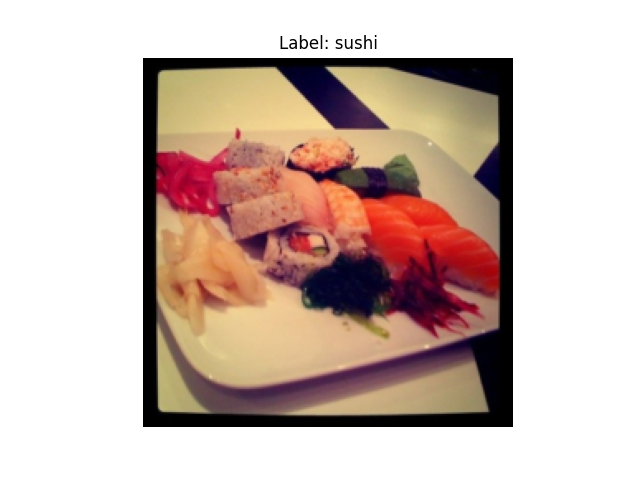
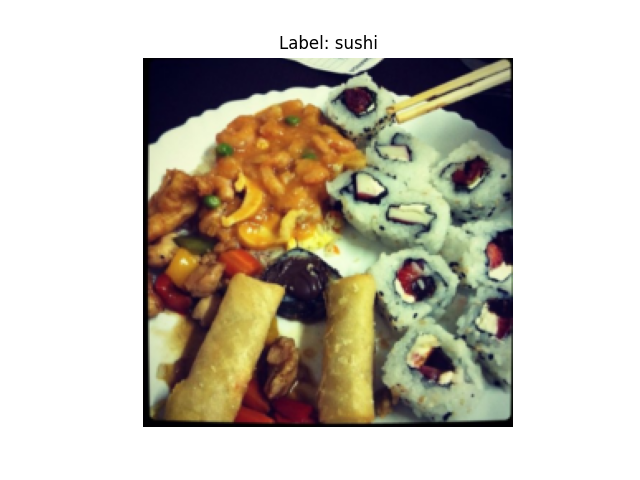
start creating the embedding layer

diff --git a/lessons/section10_pytorch_paper_replicating/src/a_226_pytorch_paper_replicating_part_1.py b/lessons/section10_pytorch_paper_replicating/src/a_226_pytorch_paper_replicating_part_1.py
@@ -72,7 +72,7 @@ ax.axis("off")
 save_path = Path(
     "lessons/section10_pytorch_paper_replicating/src/a_line_72_train_sample_image.png"
 )
-fig.savefig(save_path)
+# fig.savefig(save_path)
 plt.close(fig)
 print(f"Saved sample image to {save_path}")
 
@@ -288,3 +288,59 @@ PSEUDO CODE — mapping each equation to PyTorch building blocks
 #         logits  = self.head(cls_out)          # -> [B, NUM_CLASSES]
 #         return logits
 """
+
+"""
+In table one of the ViT paper, we have different variants of the ViT architecture (ViT-Base, ViT-Large, ViT-Huge) with different hyperparameters. For this example, 
+we'll be replicating the ViT-Base architecture which has the following hyperparameters:
+  - Image size: 224 x 224
+  - Patch size: 16 x 16
+  - Embedding dimension (Hidden size): 768 (transform the 16x16 patches into 768-dimensional vectors)
+  - Number of heads: 12
+  - Layer depth: 12 (number of stacked Transformer Encoder blocks)
+  - MLP size: 3072 (the hidden dimension of the MLP in the Transformer Encoder blocks, which is typically 4x the embedding dimension)
+    MLP is a feedforward network that processes each token independently after the attention mechanism has mixed information across tokens.
+"""
+
+
+"""
+Equation 1 — Patch + Position Embedding (input preparation):
+Input shape: [B, C, H, W] -> Output shape: [B, N+1, D]
+  - B: batch size
+  - C: number of channels (3 for RGB)
+  - H, W: image height and width (224 x 224)
+  - N: number of patches = (H / P) * (W / P) = (224 / 16) * (224 / 16) = 14 * 14 = 196
+  - P: patch size (16)
+  - D: embedding dimension (768)
+"""
+# Calculate the number of patches (N) based on the image size and patch size
+height = 224
+width = 224
+color_channels = 3
+patch_size = 16
+number_of_patches = (height // patch_size) * (width // patch_size)  # = 196
+print(f"Number of patches (N): {number_of_patches}")
+
+embedding_layer_input_shape = (height, width, color_channels)
+embedding_layer_output_shape = (
+    number_of_patches,
+    patch_size**2 * color_channels,
+)  # (N, D)
+print(
+    f"Embedding layer input shape (H, W, C), a 2D image: {embedding_layer_input_shape}"
+)
+print(
+    f"Embedding layer output shape (N, D), single 1D sequence per patch: {embedding_layer_output_shape}"
+)
+
+"""
+4.2 Turn a single image into a sequence of patches and visualize the output of the embedding layer
+"""
+# View a single image
+images, labels = next(iter(train_dataloader))
+image = images[0]  # shape: [C, H, W], float32 in [0, 1]
+print(f"Original image shape: {image.shape}")
+plt.imshow(image.permute(1, 2, 0))  # CHW -> HWC
+plt.title(f"Original Image - Label: {class_names[labels[0]]}")
+plt.axis("off")
+# plt.show()
+plt.close()